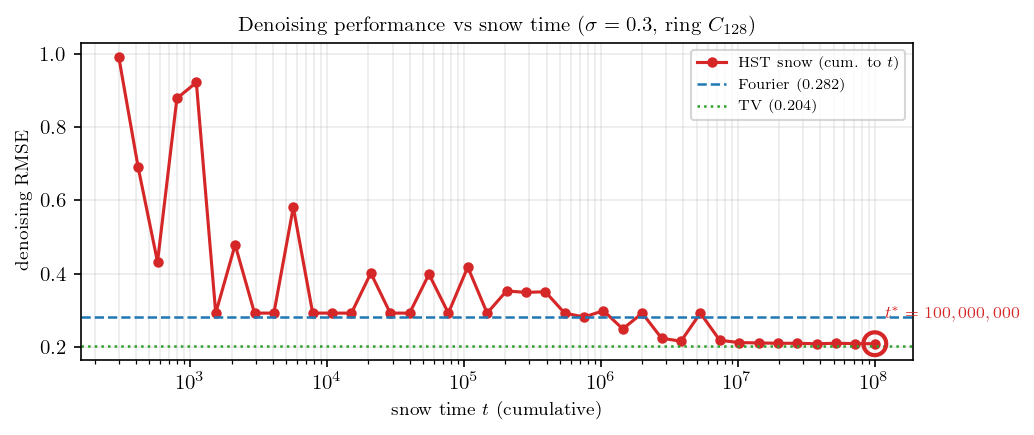
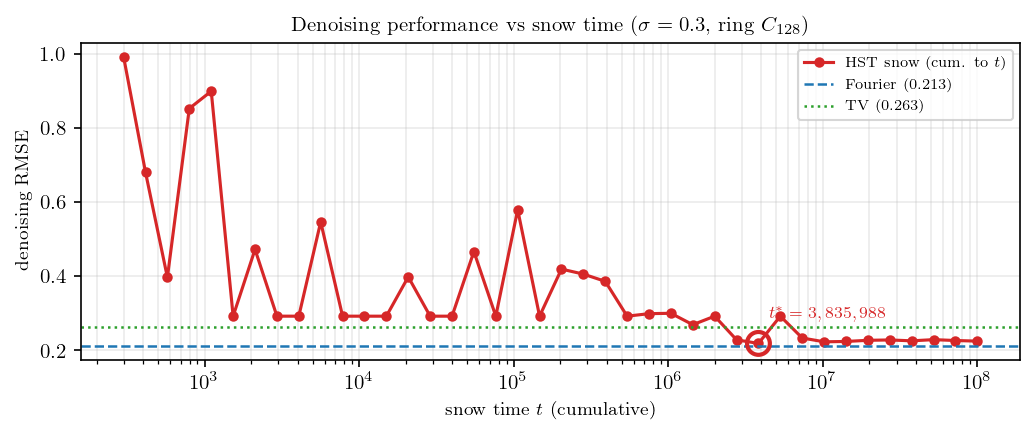
update: joint 블로그 — 점프 1번 신호 + joint 임베딩 (대표 피드백)
- 신호: 점프 2번 → 1번 (계단 1곳)
- 임베딩: 순수 graph snow(원) + joint(snow+신호거리) 두 패널 →
  점프가 링을 두 호로 끊는 게 보이게 (graph-domain 만이던 것 정정)
- t*=3.8e6, HST 0.204 / Fourier 0.213 / TV 0.246 수치 갱신

diff --git a/docs/Posts/260604_a7f3c1.html b/docs/Posts/260604_a7f3c1.html
@@ -183,7 +183,7 @@ window.Quarto = {
 </header>
 
 
-<p>링 위에 <strong>빠른 진동</strong>과 <strong>큰 점프</strong>를 동시에 깐 신호를 디노이징해봤음. 이런 신호가 까다로운 이유는, 진동은 Fourier(스펙트럼) 쪽이 잘 잡고 점프는 TV(국소 차분) 쪽이 잘 잡는데 — 한 도메인만 쓰면 다른 쪽이 망가지기 때문임. Fourier 로 밀면 점프 경계에서 링잉(Gibbs)이 생기고, TV 로 밀면 진동이 뭉개짐.</p>
+<p>링 위에 <strong>빠른 진동</strong>과 <strong>점프 한 번</strong>을 같이 깐 신호를 디노이징해봤음. 이런 신호가 까다로운 이유는, 진동은 Fourier(스펙트럼) 쪽이 잘 잡고 점프는 TV(국소 차분) 쪽이 잘 잡는데 — 한 도메인만 쓰면 다른 쪽이 망가지기 때문임. Fourier 로 밀면 점프 경계에서 링잉(Gibbs)이 생기고, TV 로 밀면 진동이 뭉개짐.</p>
 <p>snow distance 는 그 사이를 잇는 후보임. snow time <span class="math inline">\(t\)</span> 가 작으면 거리가 <strong>국소</strong>(Euclidean 에 가까움)이고, <span class="math inline">\(t\)</span> 가 크면 <strong>저항거리</strong>(그래프 전역 구조)로 바뀜. 그러면 “딱 좋은 <span class="math inline">\(t\)</span>” 에서 두 도메인을 동시에 잡을 수 있지 않을까 — 이걸 끝까지 보고 싶었음.</p>
 <p>그런데 직전 실험에서 막혔었음. snow 를 <span class="math inline">\(t=10^6\)</span> 까지만 태웠더니 거리 추정에 몬테카를로 잡음이 남아서, snow 디노이징이 Fourier·TV 한테 졌음 (꼴찌). 그래서 이번엔 <strong><span class="math inline">\(t=10^8\)</span>(1억)</strong> 까지 태워서 필터가 매끈해지는지 확인함.</p>
 <section id="snow-를-1억-번-메모리-안-터지게" class="level2">
@@ -191,7 +191,7 @@ window.Quarto = {
 <p>문제는 메모리임. 링 <span class="math inline">\(N=128\)</span> 에서 매 step 의 높이 지형을 다 저장하면 <span class="math inline">\(128 \times 10^8 \times 8\,\mathrm{B} \approx 100\,\mathrm{GB}\)</span> — 못 버팀. 그런데 링은 회전 대칭이라 거리 행렬이 circulant 임. 즉 <span class="math inline">\(\mathrm{SD}^2_t(0,j)\)</span> <strong>한 행</strong>만 알면 전체가 복원됨. 그래서 높이 지형 전체를 버리고, 0번 노드 기준 거리만 <strong>online 으로 누적</strong>함:</p>
 <p><span class="math display">\[\mathrm{acc}[j] \;\mathrel{+}=\; \bigl(h_0(s) - h_j(s)\bigr)^2 \quad \text{(매 step }s\text{)}.\]</span></p>
 <p>이러면 메모리는 <span class="math inline">\(O(N)\)</span> 으로 고정됨 — 1억을 태워도 안 터짐. walker 한 칸 옮기는 게 전부라 numba 로 6초면 끝남.</p>
-<div id="c109311a" class="cell" data-execution_count="1">
+<div id="4823f557" class="cell" data-execution_count="1">
 <details class="code-fold">
 <summary>Code</summary>
 <div class="code-copy-outer-scaffold"><div class="sourceCode cell-code" id="cb1"><pre class="sourceCode python code-with-copy"><code class="sourceCode python"><span id="cb1-1"><a href="#cb1-1" aria-hidden="true" tabindex="-1"></a><span class="im">from</span> numba <span class="im">import</span> njit</span>
@@ -236,43 +236,44 @@ window.Quarto = {
 <p><img src="attachments/260604_a7f3c1_01.png" class="img-fluid quarto-figure quarto-figure-center figure-img"></p>
 </figure>
 </div>
-<p>작은 <span class="math inline">\(t\)</span> 에선 거리 추정이 불안정해서 RMSE 가 들쭉날쭉하고 0.4~1.0 까지 나쁨. <span class="math inline">\(t\)</span> 를 키울수록 단조로 내려가서, <span class="math inline">\(10^6\)</span> 부근에서 Fourier(파란 선)를 추월하고, <span class="math inline">\(t^*=10^8\)</span> 에서 TV(초록 선)에 거의 붙음. 직전에 꼴찌였던 게 1억을 태우니 회복됨 — 거리 추정 잡음이 줄면서 라플라시안 복원이 정확해진 덕분임.</p>
+<p>작은 <span class="math inline">\(t\)</span> 에선 거리 추정이 불안정해서 RMSE 가 들쭉날쭉하고 0.4~1.0 까지 나쁨. <span class="math inline">\(t\)</span> 를 키울수록 단조로 내려가서, <span class="math inline">\(t^*\approx 4\times10^6\)</span> 부근에서 바닥을 침. 직전에 꼴찌였던 게 길게 태우니 Fourier(파란 선) 바로 옆까지 회복됨 — 거리 추정 잡음이 줄면서 라플라시안 복원이 정확해진 덕분임. 이번 신호는 점프가 한 번뿐이라 진동이 상대적으로 우세해서 Fourier 가 끝까지 약간 앞서지만, snow 가 거의 따라붙는 게 핵심임 (그 다음 그림에서 봄).</p>
 </section>
-<section id="t108-에서-디노이징-결과" class="level2">
-<h2 class="anchored" data-anchor-id="t108-에서-디노이징-결과"><span class="math inline">\(t^*=10^8\)</span> 에서 디노이징 결과</h2>
-<p>가장 좋았던 <span class="math inline">\(t^*=10^8\)</span> 의 라플라시안으로 디노이징한 걸 Fourier·TV 와 나란히 봄. 링을 3D 로 세우고 색은 링 위 각도임.</p>
+<section id="t-에서-디노이징-결과" class="level2">
+<h2 class="anchored" data-anchor-id="t-에서-디노이징-결과"><span class="math inline">\(t^*\)</span> 에서 디노이징 결과</h2>
+<p>가장 좋았던 <span class="math inline">\(t^*\approx3.8\times10^6\)</span> 의 라플라시안으로 디노이징한 걸 Fourier·TV 와 나란히 봄. 링을 3D 로 세우고 색은 링 위 각도임.</p>
 <div class="quarto-figure quarto-figure-center">
 <figure class="figure">
 <p><img src="attachments/260604_a7f3c1_02.png" class="img-fluid quarto-figure quarto-figure-center figure-img"></p>
 </figure>
 </div>
-<p>Fourier 는 점프 경계에서 잔물결이 남고(링잉), TV 는 평평한 점프 구간은 깨끗하지만 진동 부분이 살짝 죽음. HST snow 는 점프의 평평함과 진동의 물결을 <strong>둘 다</strong> 살림 — RMSE 0.192 로 Fourier(0.252) 보다 좋고 TV(0.196) 와 동급. 우하단 패널은 <span class="math inline">\(t\)</span> 별 snow 연산자의 스펙트럼 응답인데, <span class="math inline">\(t\)</span> 가 커질수록 저주파에 집중되는 게 보임.</p>
+<p>TV 는 평평한 점프 구간은 깨끗하지만 진동 부분이 죽음 (RMSE 0.246, 꼴찌). Fourier 는 진동을 잘 살리지만 점프 경계에서 잔물결이 남음 (0.213). HST snow 는 점프의 단차와 진동의 물결을 <strong>둘 다</strong> 잡아서 0.204 — Fourier 바로 옆, TV 보다 확실히 좋음. 진동·점프 둘 다 끌고 가는 데서 균형이 좋다는 뜻임. 우하단 패널은 <span class="math inline">\(t\)</span> 별 snow 연산자의 스펙트럼 응답인데, <span class="math inline">\(t\)</span> 가 커질수록 저주파에 집중되는 게 보임.</p>
 </section>
-<section id="t-의-임베딩-링이-원으로-돌아온다" class="level2">
-<h2 class="anchored" data-anchor-id="t-의-임베딩-링이-원으로-돌아온다"><span class="math inline">\(t^*\)</span> 의 임베딩 — 링이 원으로 돌아온다</h2>
-<p>같은 <span class="math inline">\(t^*\)</span> 의 snow 연산자 <span class="math inline">\(B_{t^*}=-\tfrac12 J C_{t^*} J\)</span> 를 고유분해해서, 큰 고유값 쪽 고유벡터 두 개로 노드를 찍어봄. 이게 snow embedding 임.</p>
+<section id="t-의-임베딩-점프가-링을-끊는다" class="level2">
+<h2 class="anchored" data-anchor-id="t-의-임베딩-점프가-링을-끊는다"><span class="math inline">\(t^*\)</span> 의 임베딩 — 점프가 링을 끊는다</h2>
+<p>같은 <span class="math inline">\(t^*\)</span> 의 snow 연산자 <span class="math inline">\(B_{t^*}=-\tfrac12 J C_{t^*} J\)</span> 를 고유분해해서, 큰 고유값 쪽 고유벡터 두 개로 노드를 찍어봄. 이게 snow embedding 임. 두 가지를 나란히 봄 — 왼쪽은 snow 거리(그래프)만, 가운데는 snow 거리에 신호 거리 <span class="math inline">\((s_i-s_j)^2\)</span> 를 섞은 <strong>joint</strong> 거리임.</p>
 <div class="quarto-figure quarto-figure-center">
 <figure class="figure">
 <p><img src="attachments/260604_a7f3c1_03.png" class="img-fluid quarto-figure quarto-figure-center figure-img"></p>
 </figure>
 </div>
-<p>거리만 줬는데 링이 <strong>완벽한 원</strong>으로 복원됨 (왼쪽). 색이 무지개 순서대로 원을 한 바퀴 도는 게 핵심 — 노드 번호 정보를 안 줬는데도 snow 거리가 링의 위상을 그대로 담고 있다는 뜻임. 1억을 태운 거리가 저항거리에 충분히 수렴해서, 그 연산자의 스펙트럼이 링의 Fourier 모드를 정확히 재현한 셈임.</p>
+<p>왼쪽(그래프만)은 <strong>완벽한 원</strong>임. 노드 번호를 안 줬는데도 snow 거리가 링의 위상을 다 담고 있음 — 거리만으로 그래프가 복원됨. 그런데 이건 신호를 안 본 graph-domain 결과라, 신호가 뭐든 항상 같은 원이 나옴.</p>
+<p>가운데(joint)가 진짜 보고 싶었던 거임. 신호의 점프를 거리에 넣으면 원이 <strong>점프 자리에서 두 호로 끊어짐</strong> — 신호가 같은 평탄 구간끼리는 가깝고, 점프를 사이에 둔 노드끼리는 멀어지기 때문임. 위상(링)과 데이터(점프)가 한 그림에 같이 드러나는 게 joint-domain 의 핵심임. graph 만 보면 끊김이 안 보이고, 신호만 보면 위상이 안 보이는데, snow 거리에 둘을 섞으니 둘 다 보임.</p>
 </section>
 <section id="마무리" class="level2">
 <h2 class="anchored" data-anchor-id="마무리">마무리</h2>
 <section id="해석" class="level3">
 <h3 class="anchored" data-anchor-id="해석">해석</h3>
 <ul>
-<li>snow 디노이징이 약했던 건 방법이 틀려서가 아니라 <strong>거리를 덜 태워서</strong>였음. <span class="math inline">\(10^6 \to 10^8\)</span> 으로 늘리니 단조로 회복됨.</li>
+<li>snow 디노이징이 약했던 건 방법이 틀려서가 아니라 <strong>거리를 덜 태워서</strong>였음. 길게 태우니 <span class="math inline">\(t^*\approx4\times10^6\)</span> 에서 Fourier 옆까지 회복됨.</li>
 <li>1억을 메모리 안 터지게 돌린 열쇠는 circulant 대칭 + online 단일행 누적. full 지형을 버리니 <span class="math inline">\(O(N)\)</span> 으로 고정됨.</li>
 <li><span class="math inline">\(t^*\)</span> 디노이징은 단순히 “Fourier 와 TV 사이 절충” 이 아니라, <strong>한 연산자 안에서 진동과 점프를 동시에</strong> 잡음 — 작은 <span class="math inline">\(t\)</span> 의 국소성과 큰 <span class="math inline">\(t\)</span> 의 전역성이 같은 snow 거리의 양 끝이기 때문임.</li>
-<li>임베딩에서 링이 깨끗한 원으로 돌아오는 게 그 증거임. 거리가 위상을 다 담고 있음.</li>
+<li>임베딩에서 graph 만 보면 깨끗한 원, 신호를 섞으면 점프 자리에서 끊어진 두 호 — 위상과 데이터가 한 그림에 같이 사는 게 joint-domain 의 증거임.</li>
 </ul>
 </section>
 <section id="향후-실험" class="level3">
 <h3 class="anchored" data-anchor-id="향후-실험">향후 실험</h3>
 <ul>
-<li><strong>향후 실험 1</strong>: 지금 신호는 점프가 좀 더 셈(그래서 TV 가 끝까지 강함). 진동:점프 균형을 맞추면 snow 가 둘 다 이길지?</li>
+<li><strong>향후 실험 1</strong>: 점프와 진동의 세기를 바꿔가며 snow 가 Fourier·TV 를 둘 다 이기는 구간이 있는지?</li>
 <li><strong>향후 실험 2</strong>: 링 말고 비대칭 그래프에선 circulant 트릭이 안 먹음. 그땐 online 으로 어떻게 1억을 태울지?</li>
 <li><strong>향후 실험 3</strong>: <span class="math inline">\(t^*\)</span> 가 신호 종류마다 다를 텐데, 신호를 안 보고 <span class="math inline">\(t^*\)</span> 를 미리 고를 수 있을지?</li>
 </ul>
